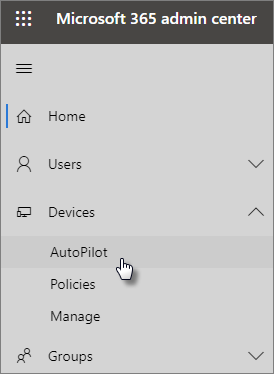
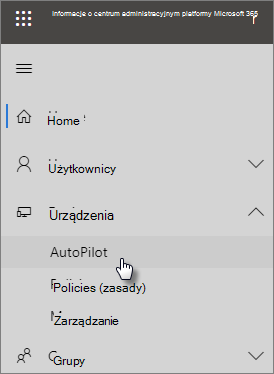
commit translated contents

diff --git a/microsoft-365/business/secure-win-10-pcs.md b/microsoft-365/business/secure-win-10-pcs.md
@@ -1,5 +1,5 @@
 ---
-title: Zabezpieczanie komputerów z systemem Windows 10
+title: Zabezpieczanie Windows 10 komputerach
 f1.keywords:
 - NOCSH
 ms.author: sharik
@@ -22,32 +22,32 @@ ms.custom:
 search.appverid:
 - BCS160
 - MET150
-description: Dowiedz się, jak zabezpieczyć komputery z systemem Windows 10 po skonfigurowaniu platformy Microsoft 365 Business Premium.
-ms.openlocfilehash: a45e941ebc407eea5defdccbbe3f06e6eb1e7dea
-ms.sourcegitcommit: 53acc851abf68e2272e75df0856c0e16b0c7e48d
+description: Dowiedz się, jak Windows 10 komputerach po ich skonfigurowaniu Microsoft 365 Business Premium.
+ms.openlocfilehash: 20fc2f4cb3c5df98158a8da50a5bdfe8893501bd95d803f09abe1fe25eadf221
+ms.sourcegitcommit: a1b66e1e80c25d14d67a9b46c79ec7245d88e045
 ms.translationtype: MT
 ms.contentlocale: pl-PL
-ms.lasthandoff: 04/02/2021
-ms.locfileid: "51578192"
+ms.lasthandoff: 08/05/2021
+ms.locfileid: "53882066"
 ---
-# <a name="secure-windows-10-computers"></a>Zabezpieczanie komputerów z systemem Windows 10
+# <a name="secure-windows-10-computers"></a>Zabezpieczanie Windows 10 komputerach
 
-Ten artykuł dotyczy usługi Microsoft 365 Business Premium.
+Ten artykuł dotyczy Microsoft 365 Business Premium.
 
-Po [skonfigurowaniu](set-up.md) usługi Microsoft 365 Business Premium należy chronić komputery z systemem Windows 10 w organizacji przed kradzieżą i złośliwymi zagrożeniami, np. wirusami i złośliwym oprogramowaniem.
+Po skonfigurowaniu [konta Microsoft 365 Business Premium](set-up.md) najbędszą ochronę komputerów Windows 10 w organizacji przed kradzieżą i złośliwymi zagrożeniami, np. wirusami i złośliwym oprogramowaniem.
 
-## <a name="to-secure-your-windows-10-computers"></a>Aby zabezpieczyć swoje komputery z systemem Windows 10
+## <a name="to-secure-your-windows-10-computers"></a>Aby zabezpieczyć swoje Windows 10 komputera
 
-1. Zaloguj się do [centrum administracyjnego platformy Microsoft 365](https://admin.microsoft.com) przy użyciu poświadczeń administratora globalnego. 
-2. W okienku po lewej stronie wybierz pozycję **Konfiguracja,** a następnie w obszarze Logowanie i zabezpieczenia wybierz pozycję Zabezpiecz swoje komputery z **systemem Windows 10.** Wybierz **pozycję Widok,** aby rozpocząć.
-3. Na stronie Zabezpieczanie komputerów z systemem **Windows 10** zapoznaj się ze wszystkimi informacjami, aby dowiedzieć się, co i jaki jest wpływ na użytkowników.
+1. Zaloguj się [centrum administracyjne platformy Microsoft 365](https://admin.microsoft.com) przy użyciu poświadczeń administratora globalnego. 
+2. W okienku po lewej stronie wybierz pozycję **Konfiguracja,** a następnie w obszarze Logowanie się i zabezpieczenia wybierz pozycję Zabezpiecz swoje **Windows 10 komputerach**. Wybierz **pozycję Widok,** aby rozpocząć.
+3. Na stronie **Zabezpieczanie Windows 10 komputerach** przeczytaj wszystkie informacje, aby dowiedzieć się, co jest w nich dostępne i jaki jest wpływ na użytkowników.
 
     U góry strony wybierz pozycję **Wprowadzenie**.
 
-4. W okienku Zabezpiecz komputery z systemem **Windows 10** wybierz opcje, które chcesz włączyć. Aby uzyskać więcej informacji o ustawieniach, zobacz [Zabezpieczanie urządzeń z systemem Windows 10.](secure-windows-10-devices.md) 
+4. W **okienku Windows 10 komputerów wybierz** opcje, które chcesz włączyć. Aby uzyskać więcej informacji o ustawieniach, zobacz [Zabezpieczanie Windows 10 urządzeniach.](secure-windows-10-devices.md) 
     
-    W większości organizacji opcje dostępne w tym miejscu zapewniają dobry poziom zabezpieczeń, jednak jeśli Twoja organizacja ma bardziej złożone potrzeby w zakresie zabezpieczeń, możesz również używać wstępnie zdefiniowanych linii bazowych zabezpieczeń do zabezpieczania urządzeń z systemem Windows 10. Aby uzyskać więcej informacji, zobacz [Plan bazowy zabezpieczeń dla urządzeń z systemem Windows 10.](/mem/intune/protect/security-baselines)   
+    W większości organizacji opcje dostępne w tym miejscu zapewniają dobry poziom zabezpieczeń, jednak jeśli Twoja organizacja ma bardziej złożone potrzeby w zakresie zabezpieczeń, możesz również używać wstępnie zdefiniowanych linii bazowych zabezpieczeń do zabezpieczania twoich Windows 10 przenośnych. Aby uzyskać więcej informacji, zobacz [Informacje o planach bazowych zabezpieczeń dla Windows 10 urządzeniach.](/mem/intune/protect/security-baselines)   
 
 1. Wybierz **pozycję Zastosuj ustawienia.**
 
-    Te ustawienia zostaną zastosować do wszystkich użytkowników w organizacji. Aby skonfigurować różne zasady dla różnych grup zabezpieczeń, zobacz Konfigurowanie ustawień ochrony urządzeń [dla komputerów z systemem Windows 10.](protection-settings-for-windows-10-pcs.md)
+    Te ustawienia zostaną zastosować do wszystkich użytkowników w organizacji. Aby skonfigurować różne zasady dla różnych grup zabezpieczeń, zobacz Konfigurowanie ustawień ochrony urządzeń [dla Windows 10 PC.](protection-settings-for-windows-10-pcs.md)

diff --git a/microsoft-365/business/autopilot-profile-settings.md b/microsoft-365/business/autopilot-profile-settings.md
@@ -29,31 +29,31 @@ search.appverid:
 - MET150
 - MOE150
 ms.assetid: 99bfbf81-e719-4630-9b0f-c187edfa1f8a
-description: Profile rozwiązania AutoPilot ułatwiają kontrolowanie sposobu instalowania systemu Windows na urządzeniach użytkowników. Profile zawierają ustawienia domyślne i opcjonalne, takie jak pominięcie instalacji Cortany.
-ms.openlocfilehash: 86f8718131f0a0b93e18e65e39e02e7d65aded1a
-ms.sourcegitcommit: 53acc851abf68e2272e75df0856c0e16b0c7e48d
+description: Profile rozwiązania AutoPilot ułatwiają kontrolowanie sposobu Windows instalacji na urządzeniach użytkowników. Profile zawierają ustawienia domyślne i opcjonalne, takie jak pomijanie Cortana instalacji.
+ms.openlocfilehash: 67ad6e92583d71207e2807657a7ad00261e1249291e2e6a7546f544ea924b394
+ms.sourcegitcommit: a1b66e1e80c25d14d67a9b46c79ec7245d88e045
 ms.translationtype: MT
 ms.contentlocale: pl-PL
-ms.lasthandoff: 04/02/2021
-ms.locfileid: "51578512"
+ms.lasthandoff: 08/05/2021
+ms.locfileid: "53896328"
 ---
 # <a name="about-autopilot-profile-settings"></a>Ustawienia profilu rozwiązania AutoPilot  informacje
 
 ## <a name="autopilot-profile-settings"></a>Ustawienia profilu rozwiązania AutoPilot
 
-Profile rozwiązania AutoPilot mogą pomóc w kontrolowaniu sposobu instalowania systemu Windows na urządzeniach użytkowników. Profile zawierają następujące ustawienia.
+Profile rozwiązania AutoPilot mogą pomóc w kontrolowaniu sposobu Windows na urządzeniach użytkowników. Profile zawierają następujące ustawienia.
   
  **Funkcje domyślne rozwiązania AutoPilot ustawiane automatycznie (wymagane):**
   
 |**Ustawienie**|**Opis**|
 |:-----|:-----|
-|Pomiń rejestrację Cortany, usługi OneDrive i OEM  <br/> |Pomija instalację aplikacji dla klientów konsumenckich, takich jak Cortana i osobista aplikacja OneDrive. Użytkownik urządzenia może je zainstalować później, o ile użytkownik jest administratorem lokalnym na urządzeniu. Rejestracja oryginalnego producenta zostanie pominięta, ponieważ urządzeniem będzie zarządzana usługa Microsoft 365 Business Premium.  <br/> |
-|Logowanie się za pomocą marki firmowej  <br/> |Jeśli twoja firma ma znakowanie Dodaj markę twojej firmy do strony logowania na platformie [Microsoft 365,](../admin/setup/customize-sign-in-page.md)użytkownik urządzenia będzie miał to doświadczenie podczas logowania.  <br/> |
-|Automatyczne rejestrowanie w uścisku usługi MDM ze skonfigurowanymi kontami AAD.  <br/> |Tożsamość użytkownika będzie zarządzana przez usługę Azure Active Directory, a użytkownicy logują się do systemu Windows i platformy Microsoft 365 za pomocą poświadczeń platformy Microsoft 365 Business Premium.  <br/> |
+|Pomiń Cortana, OneDrive i OEM  <br/> |Pomija instalowanie aplikacji dla klientów osobistych, takich Cortana i aplikacji OneDrive. Użytkownik urządzenia może je zainstalować później, o ile użytkownik jest administratorem lokalnym na urządzeniu. Rejestracja oryginalnego producenta zostanie pominięta, ponieważ urządzeniem będzie zarządzać Microsoft 365 Business Premium.  <br/> |
+|Logowanie się za pomocą marki firmowej  <br/> |Jeśli twoja firma ma znakowanie Dodaj markę twojej firmy do [strony Microsoft 365](../admin/setup/customize-sign-in-page.md)logowania, użytkownik urządzenia otrzyma to środowisko podczas logowania.  <br/> |
+|Automatyczne rejestrowanie w uścisku usługi MDM ze skonfigurowanymi kontami AAD.  <br/> |Tożsamość użytkownika będzie zarządzana przez firmę Azure Active Directory, a użytkownicy będą logować się Windows i Microsoft 365 przy użyciu swoich poświadczeń logowania Microsoft 365 Business Premium konta.  <br/> |
    
  **Ustawienia opcjonalne:**
   
 |**Ustawienie**|**Opis**|
 |:-----|:-----|
-|Pomiń ustawienia prywatności (domyślnie wyłączone)  <br/> |Jeśli ta opcja jest ustawiona **na** Wł., użytkownik urządzenia nie zobaczy umowy licencyjnej dla urządzenia i systemu Windows, gdy tylko się wcześniej pojawi.  <br/> |
+|Pomiń ustawienia prywatności (domyślnie wyłączone)  <br/> |Jeśli ta opcja jest **ustawiona** na Wł., użytkownik urządzenia nie zobaczy umowy licencyjnej urządzenia i nie zobaczy Windows po pierwszym się do urządzenia.  <br/> |
 |Nie zezwalaj użytkownikowi na zostanie administratorem lokalnym  <br/> |Jeśli ta opcja jest ustawiona na Wł., użytkownik urządzenia nie będzie mógł zainstalować żadnych aplikacji osobistych, takich jak Cortana.<br/> |

diff --git a/microsoft-365/business/add-autopilot-devices-and-profile.md b/microsoft-365/business/add-autopilot-devices-and-profile.md
@@ -26,12 +26,12 @@ search.appverid:
 - MOE150
 ms.assetid: be5b6d90-3344-4c5e-bf40-5733eb845beb
 description: Dowiedz się, jak za pomocą rozwiązania Windows AutoPilot skonfigurować nowe urządzenia Windows 10 firmy, aby były gotowe do użytku przez pracowników.
-ms.openlocfilehash: f160ddcd1e41bd44c908ecc8bbd30a9819f76902
-ms.sourcegitcommit: 00f001019c653269d85718d410f970887d904304
+ms.openlocfilehash: b61ece9a82e12bec088be1b8e2611a13ea7f80d7669911ccaa57df72bf75ee84
+ms.sourcegitcommit: a1b66e1e80c25d14d67a9b46c79ec7245d88e045
 ms.translationtype: MT
 ms.contentlocale: pl-PL
-ms.lasthandoff: 07/12/2021
-ms.locfileid: "53393444"
+ms.lasthandoff: 08/05/2021
+ms.locfileid: "53896463"
 ---
 # <a name="use-the-step-by-step-guide-to-add-autopilot-devices-and-profile"></a>Dodawanie urządzeń i profilu rozwiązania Autopilot przy użyciu przewodnika krok po kroku
 

diff --git a/microsoft-365/business/threats-detected-defender-av.md b/microsoft-365/business/threats-detected-defender-av.md
@@ -15,12 +15,12 @@ ms.collection:
 ms.custom: AdminSurgePortfolio
 search.appverid: MET150
 description: Dowiedz się Program antywirusowy Microsoft Defender, jak chronić urządzenia Windows przed zagrożeniami oprogramowania, takimi jak wirusy, złośliwe oprogramowanie i oprogramowanie szpiegujące.
-ms.openlocfilehash: 7c5d000e2a8c30e17d1f890cef69fe88beed75bb
-ms.sourcegitcommit: dcb97fbfdae52960ae62b6faa707a05358193ed5
+ms.openlocfilehash: 79ec44a44c3939a4a868b98d75ab4f24eaf949fcd9bbafb7c0a3173e267f4680
+ms.sourcegitcommit: a1b66e1e80c25d14d67a9b46c79ec7245d88e045
 ms.translationtype: MT
 ms.contentlocale: pl-PL
-ms.lasthandoff: 03/25/2021
-ms.locfileid: "53465438"
+ms.lasthandoff: 08/05/2021
+ms.locfileid: "53896308"
 ---
 # <a name="threats-detected-by-microsoft-defender-antivirus"></a>Zagrożenia wykryte przez Program antywirusowy Microsoft Defender
 

diff --git a/microsoft-365/business/app-protection-settings-for-android-and-ios.md b/microsoft-365/business/app-protection-settings-for-android-and-ios.md
@@ -25,12 +25,12 @@ search.appverid:
 - MET150
 ms.assetid: 6f2b80b4-81c3-4714-a7bc-ae69313e8a33
 description: Dowiedz się, jak tworzyć, edytować lub usuwać zasady zarządzania aplikacją oraz jak chronić pliki służbowe na urządzeniach z systemem Android lub iOS.
-ms.openlocfilehash: 92dce1e8761e53b85df85f2a84f30ab307f63e6d
-ms.sourcegitcommit: be929f79751c0c52dfa6bd98a854432a0c63faf0
+ms.openlocfilehash: 0f1e509de728654eef543449741a89f7f04001bb46ee3f06fe9b96038650eb6f
+ms.sourcegitcommit: a1b66e1e80c25d14d67a9b46c79ec7245d88e045
 ms.translationtype: MT
 ms.contentlocale: pl-PL
-ms.lasthandoff: 06/14/2021
-ms.locfileid: "52925068"
+ms.lasthandoff: 08/05/2021
+ms.locfileid: "53896363"
 ---
 # <a name="set-app-protection-settings-for-android-or-ios-devices"></a>Konfigurowanie ustawień ochrony aplikacji dla urządzeń z systemem Android lub iOS
 

diff --git a/microsoft-365/business/set-up.md b/microsoft-365/business/set-up.md
@@ -30,12 +30,12 @@ search.appverid:
 - MET150
 ms.assetid: 6e7a2dfd-8ec4-4eb7-8390-3ee103e5fece
 description: Zapoznaj się z krokami konfiguracji Microsoft 365 Business Premium, w tym dodawanie domeny i użytkowników, konfigurowanie zasad zabezpieczeń i nie tylko.
-ms.openlocfilehash: 74a98e915577cf86ec32a706bd3b8f558f49db95
-ms.sourcegitcommit: 48195345b21b409b175d68acdc25d9f2fc4fc5f1
+ms.openlocfilehash: 8158e911a8520c07cf5f85fea8b64d65820d603d7f9f49938849ff2df6fc45ed
+ms.sourcegitcommit: a1b66e1e80c25d14d67a9b46c79ec7245d88e045
 ms.translationtype: MT
 ms.contentlocale: pl-PL
-ms.lasthandoff: 06/30/2021
-ms.locfileid: "53227644"
+ms.lasthandoff: 08/05/2021
+ms.locfileid: "53882014"
 ---
 # <a name="set-up-microsoft-365-business-premium-in-the-setup-wizard"></a>Konfigurowanie Microsoft 365 Business Premium kreatora konfiguracji
 

diff --git a/microsoft-365/business/secure-windows-10-devices.md b/microsoft-365/business/secure-windows-10-devices.md
@@ -27,12 +27,12 @@ search.appverid:
 - MOE150
 ms.assetid: 21e5551f-fa35-4f13-9418-f80d668b6a2b
 description: Dowiedz się więcej o konfigurowaniu ustawień domyślnych zasad dotyczących urządzeń, które Windows 10 urządzenie otrzyma po zalogowaniu się do swojego konta służbowego.
-ms.openlocfilehash: 3f85549e722c9aa4196cf50fc02bee2e89506017
-ms.sourcegitcommit: be929f79751c0c52dfa6bd98a854432a0c63faf0
+ms.openlocfilehash: d08d33807a6ad724412574c27aecddd8f228ee8d0b6f1e6725d2a0d6d75cab06
+ms.sourcegitcommit: a1b66e1e80c25d14d67a9b46c79ec7245d88e045
 ms.translationtype: MT
 ms.contentlocale: pl-PL
-ms.lasthandoff: 06/14/2021
-ms.locfileid: "52925244"
+ms.lasthandoff: 08/05/2021
+ms.locfileid: "53882046"
 ---
 # <a name="secure-windows-10-devices"></a>Zabezpieczanie urządzeń z systemem Windows 10
 

diff --git a/microsoft-365/business/review-threats-take-action.md b/microsoft-365/business/review-threats-take-action.md
@@ -15,12 +15,12 @@ ms.collection:
 ms.custom: AdminSurgePortfolio
 search.appverid: MET150
 description: Dowiedz się, jak przeglądać i zarządzać zagrożeniami wykrytymi przez Program antywirusowy Microsoft Defender na twoich Windows 10 urządzeniach.
-ms.openlocfilehash: 15e99fb75e4a3ac1af842ca7d0b900e02cbc6bd4
-ms.sourcegitcommit: 27b2b2e5c41934b918cac2c171556c45e36661bf
+ms.openlocfilehash: f2edd27c527cc2b9fd8c986191a0bad5c0844da68880f8d8d775491e3480babd
+ms.sourcegitcommit: a1b66e1e80c25d14d67a9b46c79ec7245d88e045
 ms.translationtype: MT
 ms.contentlocale: pl-PL
-ms.lasthandoff: 03/19/2021
-ms.locfileid: "53465430"
+ms.lasthandoff: 08/05/2021
+ms.locfileid: "53882098"
 ---
 # <a name="review-detected-threats-and-take-action"></a>Przeglądanie wykrytych zagrożeń i działanie
 
